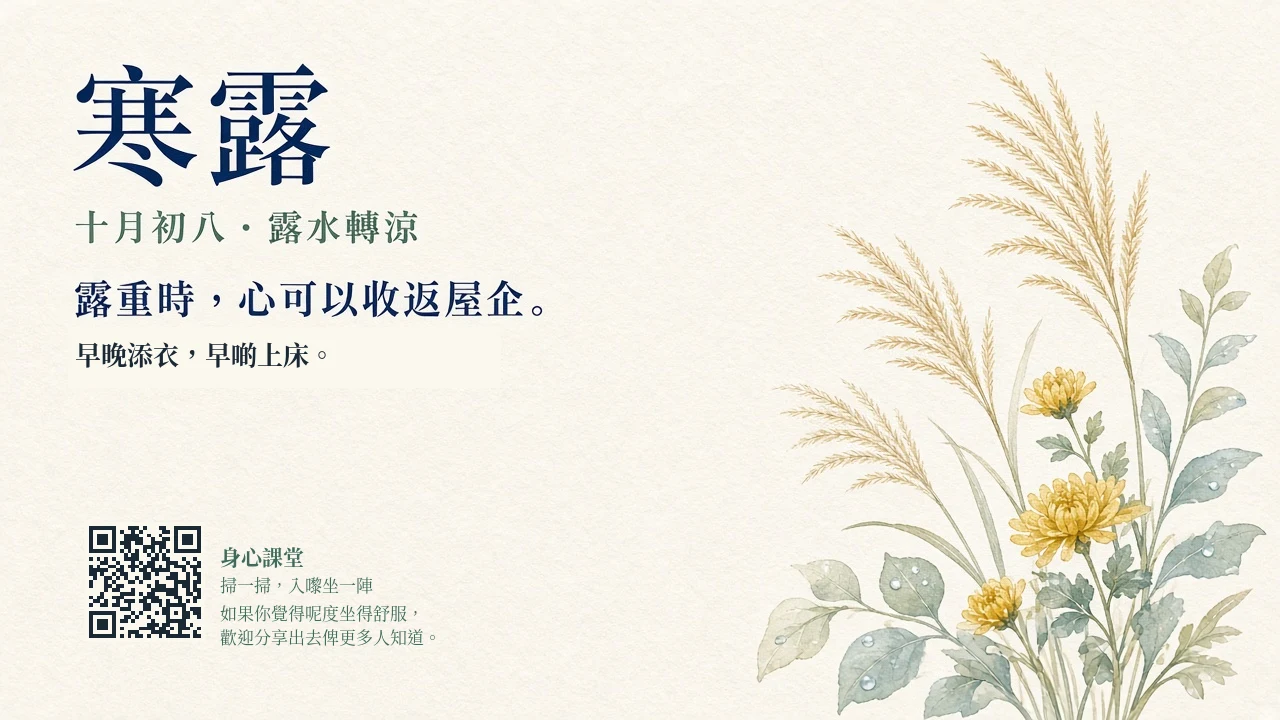
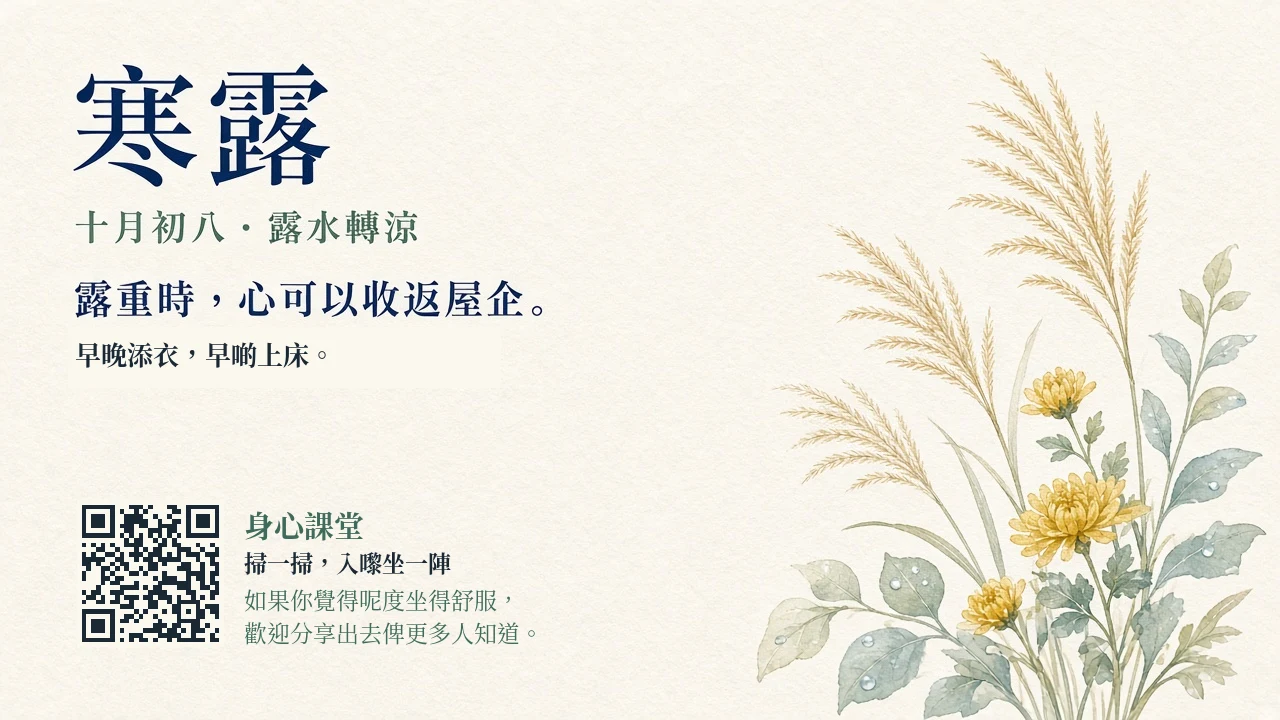
圖卡: 網站顯示無QR版本，分享版字體放大

Changed region(s): [[0.0625, 0.7028, 0.4062, 0.9167]]

diff --git a/src/routes/index.tsx b/src/routes/index.tsx
@@ -114,8 +114,8 @@ function Home() {
           <Link to="/jieqi" className="rounded-card border border-line bg-paper p-7 text-ink no-underline">
             {termCard ? (
               <picture>
-                <source srcSet={`${termCard}.webp`} type="image/webp" />
-                <img src={`${termCard}.jpg`} alt="" loading="lazy" className="mb-5 aspect-video w-full rounded-card border border-line object-cover" />
+                <source srcSet={`${termCard}-web.webp`} type="image/webp" />
+                <img src={`${termCard}-web.jpg`} alt="" loading="lazy" className="mb-5 aspect-video w-full rounded-card border border-line object-cover" />
               </picture>
             ) : null}
             <p className="text-xs tracking-[0.22em] text-accent">節氣 · 形神</p>

diff --git a/src/components/jieqi-share-card.tsx b/src/components/jieqi-share-card.tsx
@@ -44,8 +44,8 @@ export function JieqiShareCard({ card, term, lang }: { card: string; term: strin
   return (
     <figure className="mt-8">
       <picture>
-        <source srcSet={`${card}.webp`} type="image/webp" />
-        <img src={jpg} alt={alt} loading="lazy" className="w-full rounded-card border border-line" />
+        <source srcSet={`${card}-web.webp`} type="image/webp" />
+        <img src={`${card}-web.jpg`} alt={alt} loading="lazy" className="w-full rounded-card border border-line" />
       </picture>
       <figcaption className="mt-3 flex gap-5 text-sm">
         <a href={jpg} download={file} onClick={() => track(card)} className="text-accent no-underline">
